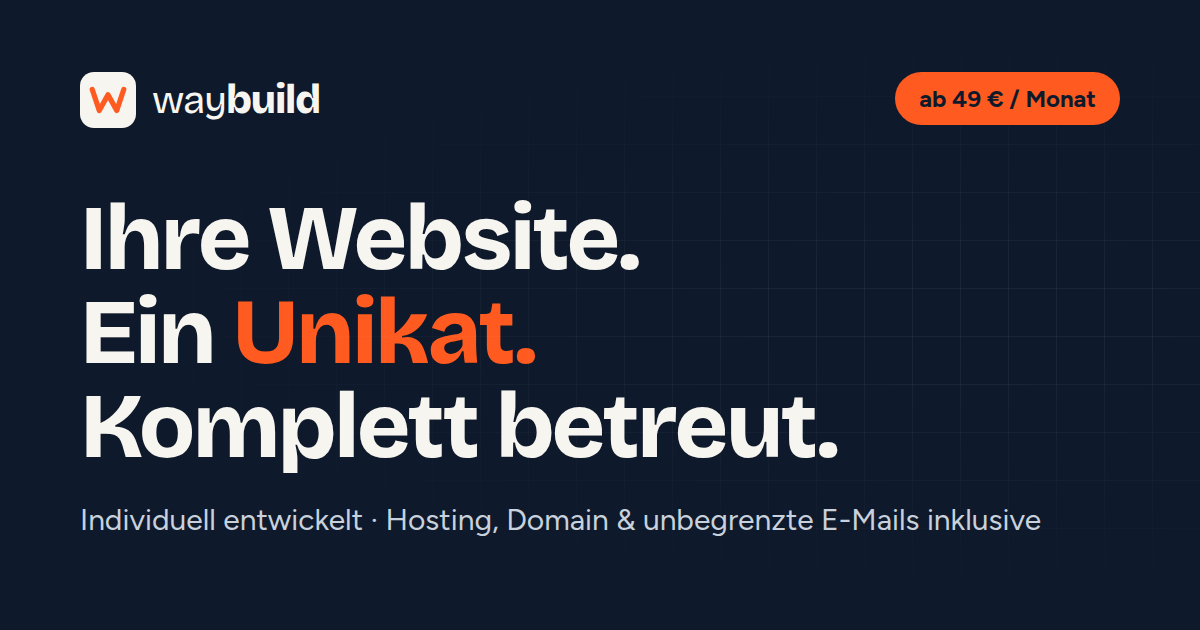
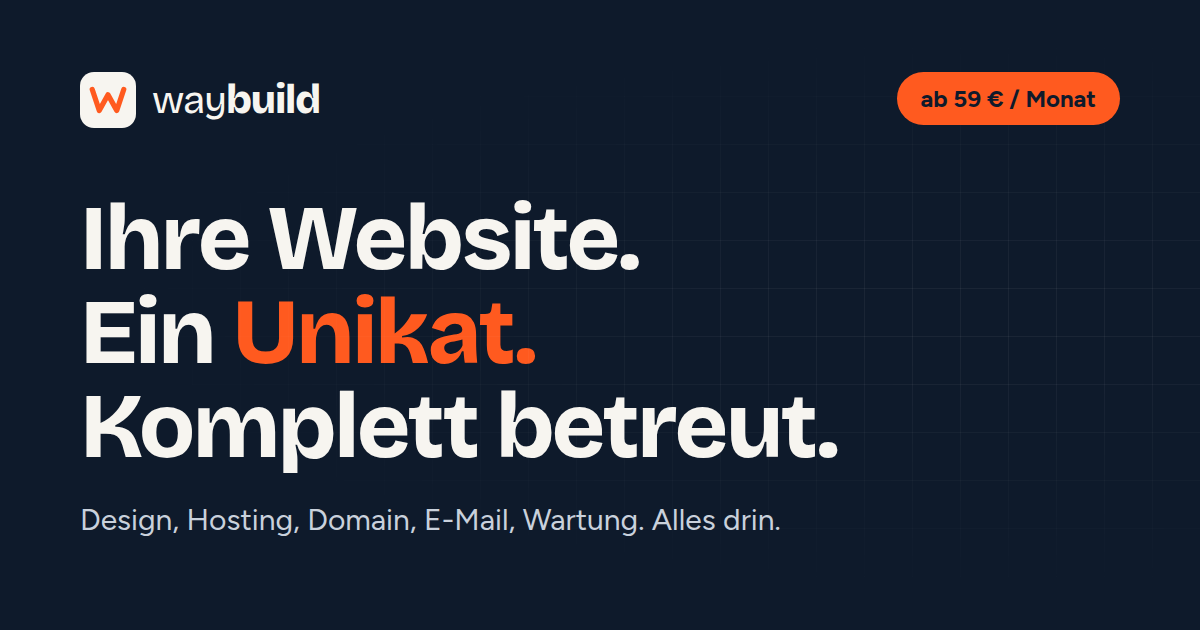
Neue Preise (59/99/199 €, einheitlich 490 € Einrichtung, 0 € bei Jahreszahlung), Leistungsmatrix als einzige Quelle, Vergleichstabelle, klare Angebotszeile

Changed region(s): [[0.0617, 0.7841, 0.8633, 0.8444], [0.74, 0.1508, 0.8017, 0.181]]

diff --git a/src/config/site.ts b/src/config/site.ts
@@ -34,71 +34,60 @@ export const references: { name: string; branche: string; url?: string; text: st
 export const VAT_RATE = 0.19;
 
 export type Plan = {
-  id: string;
+  id: 'start' | 'business' | 'premium';
   name: string;
+  /** Für wen – ein kurzer Satz */
   tagline: string;
   setup: number;
   monthly: number;
   highlight?: boolean;
+  /** Automatisch aus der Leistungsmatrix erzeugt (für Karten-Details, llms.txt usw.) */
   features: string[];
 };
 
-// Alle Preise netto (B2B) zzgl. gesetzl. USt.
-// Die ersten 4 features sind sofort sichtbar, der Rest steckt unter "Alle Leistungen".
-export const plans: Plan[] = [
-  {
-    id: 'start',
-    name: 'Start',
-    tagline: 'Für Selbstständige',
-    setup: 290,
-    monthly: 49,
-    features: [
-      'Bis 5 Seiten',
-      'Individuelles Design',
-      'Unbegrenzte Postfächer',
-      '30 Min. Änderungen / Monat',
-      'Hosting in Deutschland',
-      '.de-Domain & SSL',
-      'Technisches SEO',
-      'Antwort in 48 Std.',
-    ],
-  },
-  {
-    id: 'business',
-    name: 'Business',
-    tagline: 'Für lokale Unternehmen',
-    setup: 590,
-    monthly: 89,
-    highlight: true,
-    features: [
-      'Bis 12 Seiten',
-      'Lokales SEO & Google-Profil',
-      'Unbegrenzte Postfächer',
-      '90 Min. Änderungen / Monat',
-      'Alles aus Start',
-      'Blog / News',
-      'Anfrage- & Terminformulare',
-      'Antwort in 24 Std.',
-    ],
-  },
-  {
-    id: 'premium',
-    name: 'Premium',
-    tagline: 'Für Wachstum',
-    setup: 1190,
-    monthly: 169,
-    features: [
-      'Unbegrenzte Seiten',
-      'Monatliche SEO-Betreuung',
-      'Unbegrenzte Postfächer',
-      '4 Std. Änderungen / Monat',
-      'Alles aus Business',
-      'Optimierung für KI-Suchen',
-      'Zweite Sprache inklusive',
-      'Antwort in 4 Std. (werktags)',
-    ],
-  },
+/** Einheitliche Einrichtungsgebühr – entfällt bei jährlicher Zahlung. */
+export const SETUP_FEE = 490;
+
+/** Das Angebot in einem Satz. */
+export const OFFER = 'Design, Hosting, Domain, E-Mail, Wartung. Alles drin.';
+
+/**
+ * Leistungsmatrix: EINE Quelle für Tarifkarten, Vergleichstabelle und alle Texte.
+ * Werte je Tarif [Start, Business, Premium]: true = enthalten, false = nicht enthalten, Text = Umfang.
+ * Die ersten KEY_ROWS Zeilen sind die Unterschiede – sie stehen sichtbar auf jeder Karte.
+ */
+export const KEY_ROWS = 4;
+export const matrix: { label: string; values: [string | boolean, string | boolean, string | boolean] }[] = [
+  { label: 'Seiten', values: ['bis 5', 'bis 12', 'unbegrenzt'] },
+  { label: 'Änderungen / Monat', values: ['30 Min.', '90 Min.', '4 Std.'] },
+  { label: 'SEO', values: ['Technisch', 'Lokal + Google-Profil', 'Laufende Betreuung'] },
+  { label: 'Antwortzeit', values: ['48 Std.', '24 Std.', '4 Std.'] },
+  { label: 'Individuelles Design', values: [true, true, true] },
+  { label: 'Unbegrenzte E-Mail-Postfächer', values: [true, true, true] },
+  { label: 'Hosting in Deutschland, .de-Domain, SSL', values: [true, true, true] },
+  { label: 'Backups, Updates & Sicherheit', values: [true, true, true] },
+  { label: 'Kontaktformular', values: [true, true, true] },
+  { label: 'Blog / News', values: [false, true, true] },
+  { label: 'Anfrage- & Terminformulare', values: [false, true, true] },
+  { label: 'Optimierung für KI-Suchen', values: [false, false, true] },
+  { label: 'Zweite Sprache', values: [false, false, true] },
+  { label: 'Monatlicher SEO-Report', values: [false, false, true] },
 ];
+
+const planBase = [
+  { id: 'start', name: 'Start', tagline: 'Für Selbstständige und kleine Betriebe', monthly: 59 },
+  { id: 'business', name: 'Business', tagline: 'Für Unternehmen, die lokal gefunden werden wollen', monthly: 99, highlight: true },
+  { id: 'premium', name: 'Premium', tagline: 'Für Wachstum mit laufender Betreuung', monthly: 199 },
+] as const;
+
+// Alle Preise netto (B2B) zzgl. gesetzl. USt.
+export const plans: Plan[] = planBase.map((p, i) => ({
+  ...p,
+  setup: SETUP_FEE,
+  features: matrix
+    .filter((row) => row.values[i] !== false)
+    .map((row) => (row.values[i] === true ? row.label : `${row.label}: ${row.values[i]}`)),
+}));
 
 export const allPlansInclude = [
   'Unbegrenzte E-Mail-Postfächer',
@@ -191,7 +180,7 @@ export const faqs = [
   },
   {
     q: 'Wie lange ist die Vertragslaufzeit?',
-    a: 'Die Mindestlaufzeit beträgt 12 Monate. Danach ist das Abo monatlich kündbar. Bei jährlicher Zahlung schenken wir Ihnen 2 Monatsbeiträge.',
+    a: 'Die Mindestlaufzeit beträgt 12 Monate. Danach ist das Abo monatlich kündbar. Bei jährlicher Zahlung entfällt die Einrichtungsgebühr von 490 € komplett.',
   },
   {
     q: 'Wie viele E-Mail-Adressen sind enthalten?',

diff --git a/src/config/branchen.ts b/src/config/branchen.ts
@@ -1,6 +1,10 @@
 // Branchen-Landingpages: /website-fuer/<slug>/
 // Jede Seite rankt auf "Website für <Branche>" und führt direkt zum passenden Tarif.
-import type { IconName } from './site';
+import { plans, type IconName } from './site';
+
+// Preise immer aus der Tarif-Konfiguration – nie fest in Texte schreiben
+const ab = Math.min(...plans.map((p) => p.monthly));
+const business = plans.find((p) => p.id === 'business')!.monthly;
 
 export type Branche = {
   slug: string;
@@ -25,7 +29,7 @@ export const branchen: Branche[] = [
     slug: 'handwerker',
     name: 'Handwerker',
     label: 'Handwerk',
-    title: 'Website für Handwerker – im Abo ab 49 €',
+    title: `Website für Handwerker – im Abo ab ${ab} €`,
     description: 'Website für Handwerksbetriebe im Abo: individuell, mobil, lokal bei Google gefunden. Mit Anfrageformular, E-Mails & Hosting. Live in 14 Tagen.',
     claim: 'Mehr Aufträge aus der Region – ohne Technik-Stress.',
     pains: ['Keine Zeit für die Website', 'Kunden finden Sie nicht bei Google', 'Veraltete Seite schreckt ab'],
@@ -46,7 +50,7 @@ export const branchen: Branche[] = [
     slug: 'arztpraxen',
     name: 'Arztpraxen',
     label: 'Arztpraxen',
-    title: 'Website für Arztpraxen – im Abo ab 49 €',
+    title: `Website für Arztpraxen – im Abo ab ${ab} €`,
     description: 'Praxis-Website im Abo: Öffnungszeiten, Leistungen, Online-Terminbuchung, barrierearm und DSGVO-freundlich. Hosting & E-Mail inklusive.',
     claim: 'Weniger Anrufe am Empfang. Mehr Zeit für Patienten.',
     pains: ['Telefon steht nicht still', 'Öffnungszeiten sind veraltet', 'Datenschutz verunsichert'],
@@ -89,7 +93,7 @@ export const branchen: Branche[] = [
     name: 'Kanzleien & Steuerberater',
     label: 'Kanzleien',
     title: 'Website für Kanzleien & Steuerberater',
-    description: 'Seriöse Kanzlei-Website im Abo: Rechtsgebiete, Team, Mandantenanfrage. Individuell, schnell, ohne Cookie-Banner. Ab 89 € netto im Monat.',
+    description: `Seriöse Kanzlei-Website im Abo: Rechtsgebiete, Team, Mandantenanfrage. Individuell, schnell, ohne Cookie-Banner. Ab ${business} € netto im Monat.`,
     claim: 'Seriös. Klar. Vertrauen ab dem ersten Klick.',
     pains: ['Website wirkt austauschbar', 'Mandanten finden nicht das Rechtsgebiet', 'Pflichtangaben sind unübersichtlich'],
     features: [
@@ -131,7 +135,7 @@ export const branchen: Branche[] = [
     name: 'Friseure & Kosmetikstudios',
     label: 'Beauty & Friseur',
     title: 'Website für Friseure & Kosmetik – im Abo',
-    description: 'Salon-Website im Abo: Leistungen, Preise, Online-Termine – modern und mobil. Hosting, Domain & E-Mails inklusive. Ab 49 € netto im Monat.',
+    description: `Salon-Website im Abo: Leistungen, Preise, Online-Termine – modern und mobil. Hosting, Domain & E-Mails inklusive. Ab ${ab} € netto im Monat.`,
     claim: 'Ihr Salon, so schön online wie vor Ort.',
     pains: ['Termine nur per Telefon', 'Preise sind nirgends zu finden', 'Instagram allein reicht nicht'],
     features: [

diff --git a/src/pages/llms.txt.ts b/src/pages/llms.txt.ts
@@ -1,7 +1,7 @@
 // /llms.txt – kompakte Zusammenfassung für KI-Suchen (ChatGPT, Perplexity, Gemini …).
 // Wird beim Build aus der Konfiguration erzeugt, damit Preise & Leistungen immer aktuell sind.
 import type { APIRoute } from 'astro';
-import { company, plans, usps, faqs, allPlansInclude, isMissing } from '../config/site';
+import { company, plans, usps, faqs, allPlansInclude, isMissing, SETUP_FEE, OFFER } from '../config/site';
 import { absolute } from '../lib/paths';
 import { branchen } from '../config/branchen';
 import { getCollection } from 'astro:content';
@@ -16,9 +16,10 @@ export const GET: APIRoute = async ({ site }) => {
     `> ${company.slogan} Websites im Abo für kleine und mittlere Unternehmen in Deutschland – ohne WordPress, mit Hosting, Domain, unbegrenzten E-Mail-Postfächern und Wartung zum festen Monatspreis.`,
     '',
     '## Tarife (Preise netto zzgl. 19 % USt.)',
-    ...plans.map((p) => `- ${p.name} (${p.tagline}): ${p.monthly} € / Monat, Einrichtung ${p.setup} € einmalig. ${list(p.features)}.`),
+    `Angebot: ${OFFER}`,
+    ...plans.map((p) => `- ${p.name} (${p.tagline}): ${p.monthly} € / Monat. ${list(p.features)}.`),
     `- In jedem Tarif: ${allPlansInclude.join(', ')}.`,
-    '- Mindestlaufzeit 12 Monate, danach monatlich kündbar. Jahreszahlung: 2 Monate gratis.',
+    `- Einrichtung einmalig ${SETUP_FEE} € für alle Tarife – entfällt bei jährlicher Zahlung. Mindestlaufzeit 12 Monate, danach monatlich kündbar.`,
     '',
     '## Besonderheiten',
     ...usps.map((u) => `- ${u.title}: ${u.text}`),

diff --git a/src/content/ratgeber/website-mieten-oder-kaufen.md b/src/content/ratgeber/website-mieten-oder-kaufen.md
@@ -21,8 +21,8 @@ Laut Marktübersichten kostet eine gekaufte Website für kleine Betriebe **etwa 
 
 | | Kaufen | Mieten (z. B. Waybuild Business) |
 |---|---|---|
-| Start | 1.500–3.000 € | 590 € Einrichtung |
-| Laufend | Hosting, Wartung, Änderungen extra | 89 € / Monat, alles inklusive |
+| Start | 1.500–3.000 € | 490 € Einrichtung (0 € bei Jahreszahlung) |
+| Laufend | Hosting, Wartung, Änderungen extra | 99 € / Monat, alles inklusive |
 | Technik-Aufwand | bei Ihnen | beim Anbieter |
 | Planbarkeit | schwankend | fester Betrag, voll absetzbar |
 
